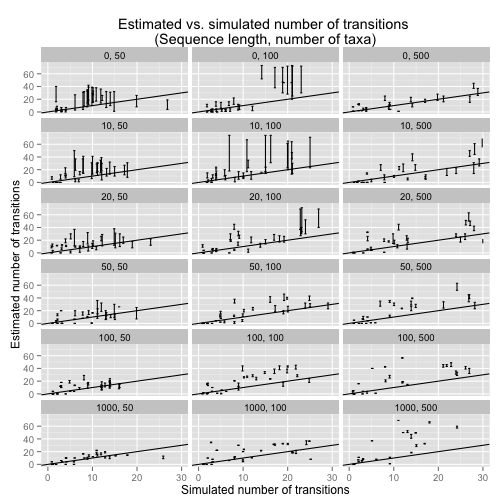
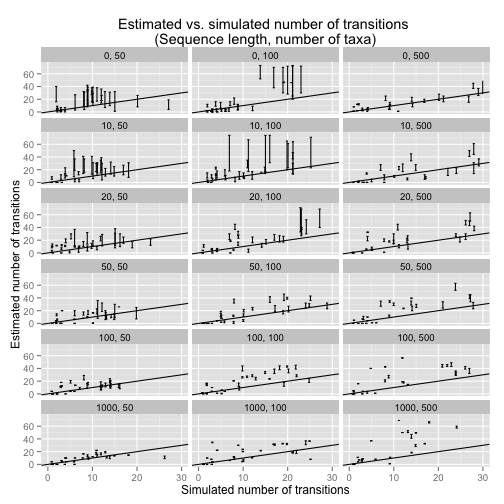
updated with errors as ratio

diff --git a/README.md b/README.md
@@ -5,38 +5,38 @@
 
 ## Instructions to reproduce the simulations and analyses (I suggest you clone this repo and follow the steps below):
 
-- Use generate data sets in simulation_data_sets: 
+  1- Use generate data sets in simulation_data_sets: 
 
-  - Open an R prompt, set the working directory to simulation_data_sets
+     - Open an R prompt, set the working directory to simulation_data_sets
 
-  - Inspect the file called settings data. This contains the simulation settings
+     - Inspect the file called settings data. This contains the simulation settings
 
-  - In R type the code below. This will generate some folders with xml files for BEAST 2: 
+     - In R type the code below. This will generate some folders with xml files for BEAST 2: 
 
 ```
 source('generate_datasets.R')
 ```
 
   
-- run BEAST on the the folder for each set of simulations using the bash script run_beast.sh
+  2 - run BEAST on the the folder for each set of simulations using the bash script run_beast.sh
 
-  - Open run_beast.sh and modify line 7 to as the path to the beast2 binary file in your machine
+    - Open run_beast.sh and modify line 7 to as the path to the beast2 binary file in your machine
 
-  - In terminal, cd into each of the simulation settings files (set1, set2, set3, ect..), and execute run_beast.sh. This will run beast for all the xml files in the folder. You would use a command such as this:
+    - In terminal, cd into each of the simulation settings files (set1, set2, set3, ect..), and execute run_beast.sh. This will run beast for all the xml files in the folder. You would use a command such as this:
 
 ```
 ./run_beast.sh
 ```
 
 
-- Simulate ancestral states on the true tree and estimates for the trees in the posterior.
+   3 - Simulate ancestral states on the true tree and estimates for the trees in the posterior.
 
-  - In each settings folder, run the script simulate_states.R, using **source('simulate_states.R')**. This script simulates a number of transitions along the true tree, and then estimates the transitions for the trees in the posterior. In the present example it uses the last 100 trees from the posterior, but a larger number should be used in practice. This can be changed in the script accordingly. In this example this will generate three files called: **10res_matrix_20t.txt, 30res_matrix_20t.txt, 3res_matrix_20t.txt**. The first column is the name of the replicate, the second is the true number of simulated transitions, the third and fourth are the maximum and minimum errors in the estimated number of transitions in the trees in the posterior. In this case we define error as: number of transitions in a tree in the posterior - number of simulated transitions.
+     - In each settings folder, run the script simulate_states.R, using **source('simulate_states.R')**. This script simulates a number of transitions along the true tree, and then estimates the transitions for the trees in the posterior. In the present example it uses the last 100 trees from the posterior, but a larger number should be used in practice. This can be changed in the script accordingly. In this example this will generate three files called: **10res_matrix_20t.txt, 30res_matrix_20t.txt, 3res_matrix_20t.txt**. The first column is the name of the replicate, the second is the true number of simulated transitions, the third and fourth are the maximum and minimum errors in the estimated number of transitions in the trees in the posterior. In this case we define error as: number of transitions in a tree in the posterior - number of simulated transitions.
 
-- In the simulation_data_sets folder run the compile_data.R script using **source('compile_data.R') to obtain a single table with all the results. This will produce a text file called compiled_data.txt with the results for all data sets, which can be used for plotting the results as follows:
+     4 - In the simulation_data_sets folder run the compile_data.R script using **source('compile_data.R') to obtain a single table with all the results. This will produce a text file called compiled_data.txt with the results for all data sets, which can be used for plotting the results as follows:
 
 
-Estimated vs. simulated numbers of transitions for the true treee:
+Estimated vs. simulated numbers of transitions:
 
 
 ```r
@@ -44,8 +44,13 @@ library(ggplot2)
 
 dat_raw <- read.table('compiled_data.txt', head = T, as.is = T)
 
-dat_raw$error_min <- (dat_raw$min_t - dat_raw$sim_t) / dat_raw$sim_t
-dat_raw$error_max <- (dat_raw$max_t - dat_raw$sim_t) / dat_raw$sim_t
+#dat_raw$error_min <- (dat_raw$min_t - dat_raw$sim_t) / dat_raw$sim_t
+#dat_raw$error_max <- (dat_raw$max_t - dat_raw$sim_t) / dat_raw$sim_t
+
+dat_raw$error_min <- dat_raw$min_t / dat_raw$sim_t
+dat_raw$error_max <- dat_raw$max_t / dat_raw$sim_t
+
+
 
 dat1.1 <- dat_raw
 dat1.1$ntax <- factor(dat1.1$ntax)
@@ -56,10 +61,7 @@ plot1.1 <- ggplot(dat1.1, aes(x = jitter(sim_t), y = ((error_max - error_min) / 
 print(plot1.1)
 ```
 
-
 ![plot of chunk unnamed-chunk-1](figure/unnamed-chunk-1.png) 
-
-**Fig 1.** Estimated vs. simulated number of transitions for the true tree
 
 Estimation error:
 
@@ -76,8 +78,5 @@ plot1.2 <- ggplot(dat1.2, aes(x = slen, y =  ((error_max - error_min) / 2) + err
 print(plot1.2)
 ```
 
-
-
 ![plot of chunk unnamed-chunk-2](figure/unnamed-chunk-2.png) 
 
-**Fig 2.** Error in estimated number of transitions vs. Sequence length for different expected number of transitions and numbers of taxa
